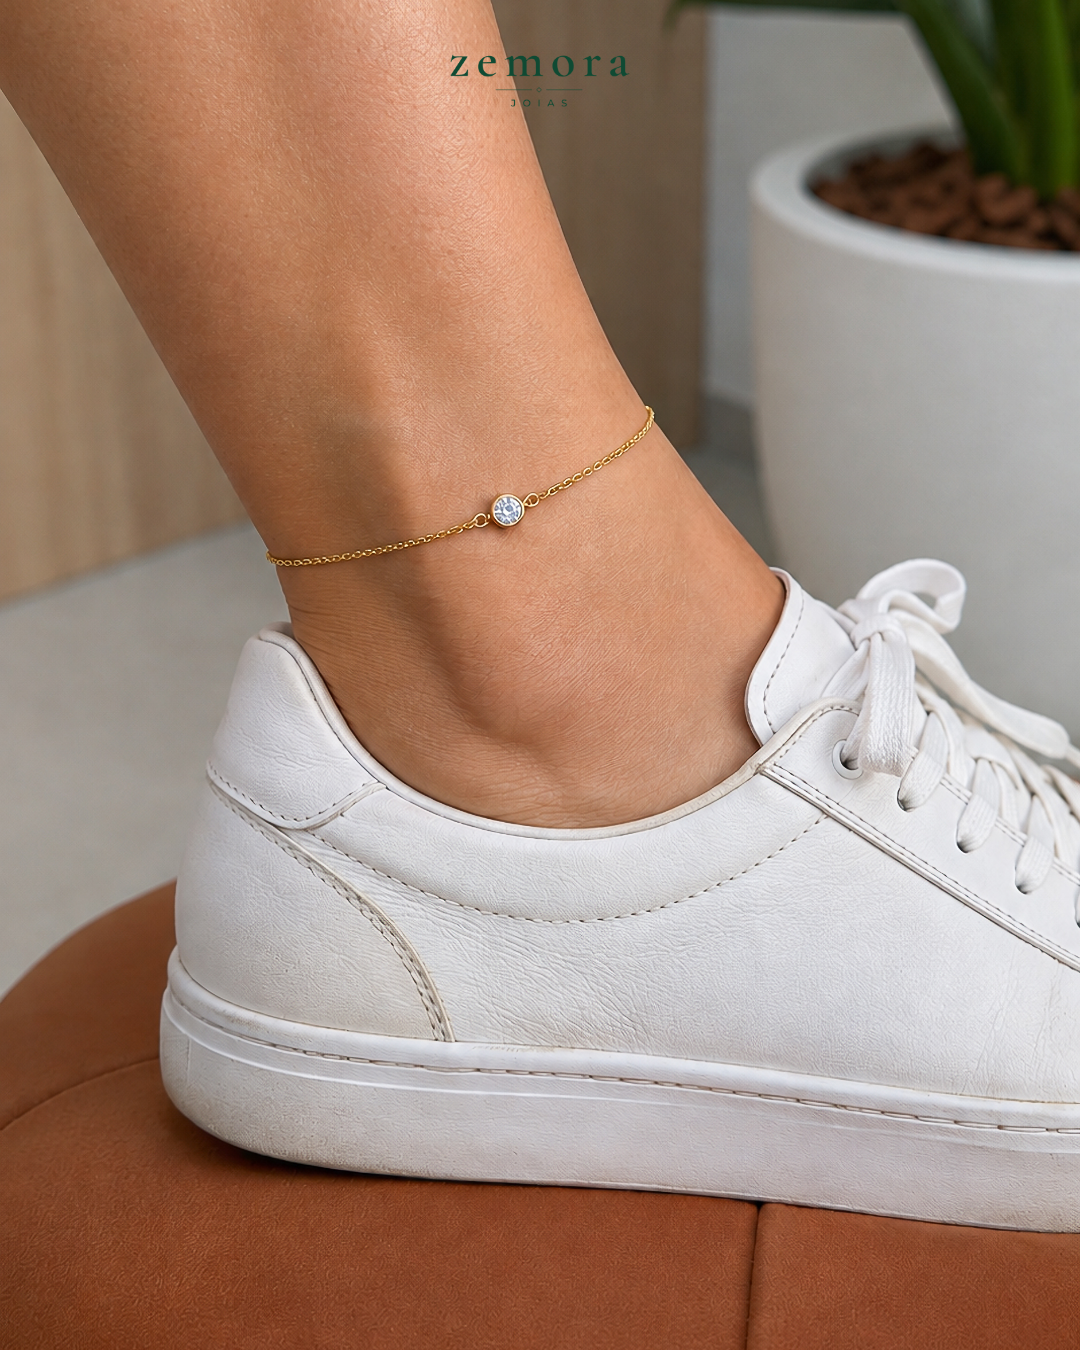
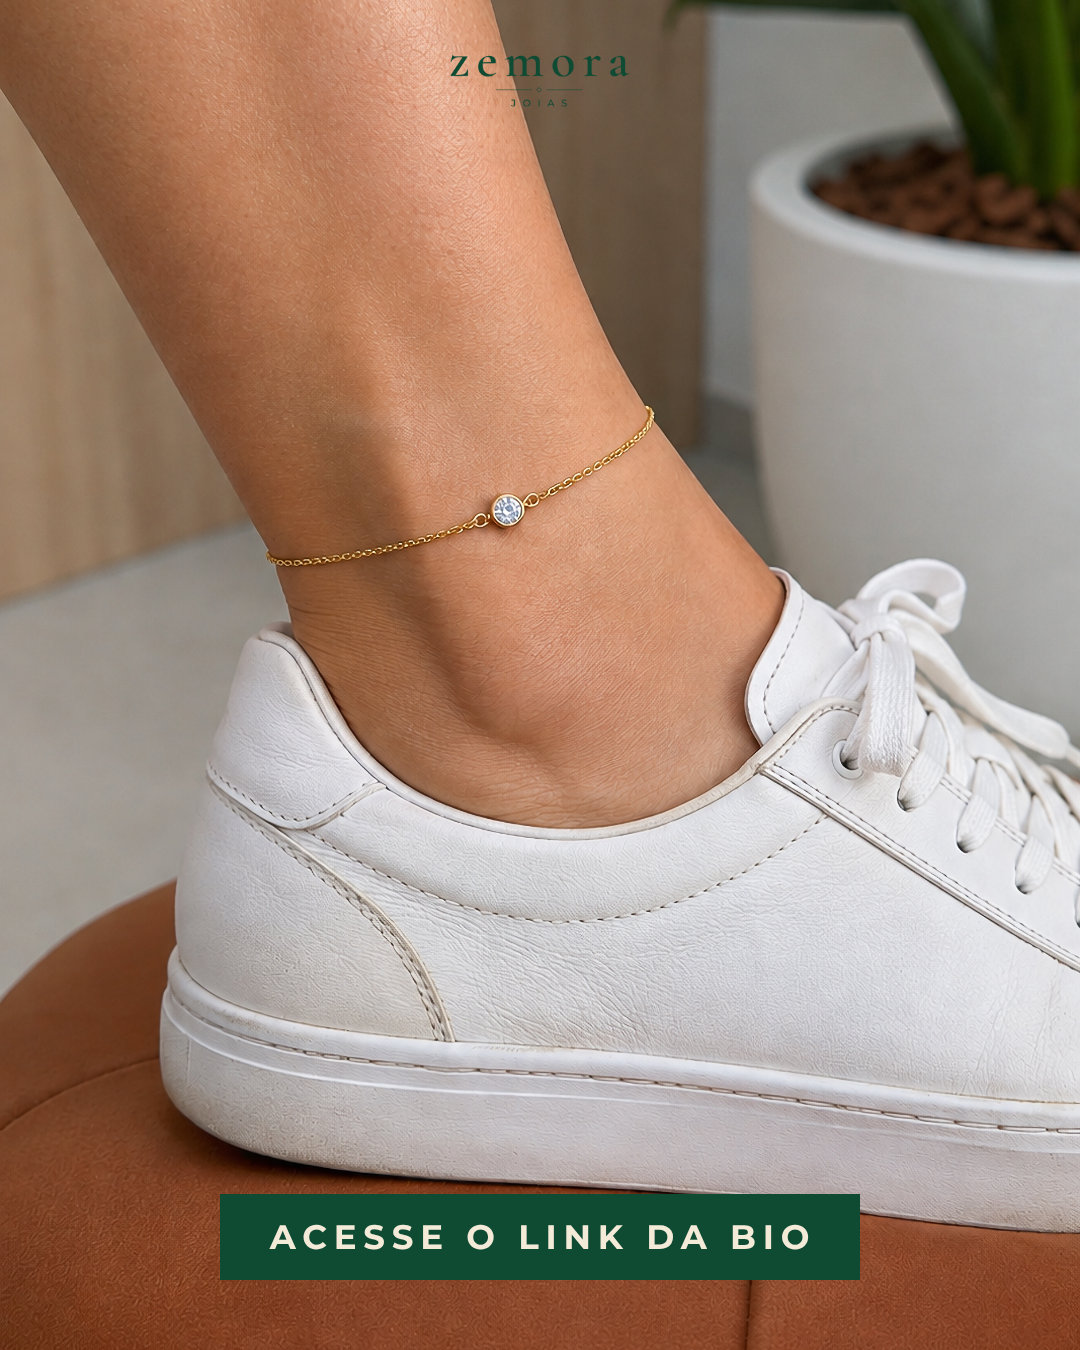
Carrossel acessórios: chamada 'Acesse o link da bio' no último card
Claude-Session: https://claude.ai/code/session_01Ds4o6DPNY229NefAqtX4RB

Changed region(s): [[0.1833, 0.8711, 0.7944, 0.9644]]

diff --git a/cards/render-carrossel.js b/cards/render-carrossel.js
@@ -12,7 +12,7 @@ const sets={dp:[
  {n:2,logo:'logo-zemora-verde.png',foto:'ac-colar.jpg',pos:'50% 50%',v:'top:-999px',ts:0,body:''},
  {n:3,logo:'logo-zemora-verde.png',foto:'ac-aneis-dourados.jpg',pos:'50% 55%',v:'top:-999px',ts:0,body:''},
  {n:4,logo:'logo-zemora-verde.png',foto:'ac-aneis-prata.jpg',pos:'50% 55%',v:'top:-999px',ts:0,body:''},
- {n:5,logo:'logo-zemora-verde.png',foto:'ac-tornozeleira.jpg',pos:'50% 50%',v:'top:-999px',ts:0,body:''},
+ {n:5,logo:'logo-zemora-verde.png',foto:'ac-tornozeleira.jpg',pos:'50% 50%',v:'bottom:70px',ts:0,body:`<span class="hl" style="font:600 34px/1 Montserrat;letter-spacing:.2em;padding:26px 44px 26px 50px">ACESSE O LINK DA BIO</span>`},
 ]};
 const set=process.argv[3]||'dp';const prefix={dp:'zemora-dourado-prata',ac:'zemora-acessorios'}[set];const cards=sets[set];
 (async()=>{const b=await chromium.launch();const p=await b.newPage({viewport:{width:1080,height:1350}});
